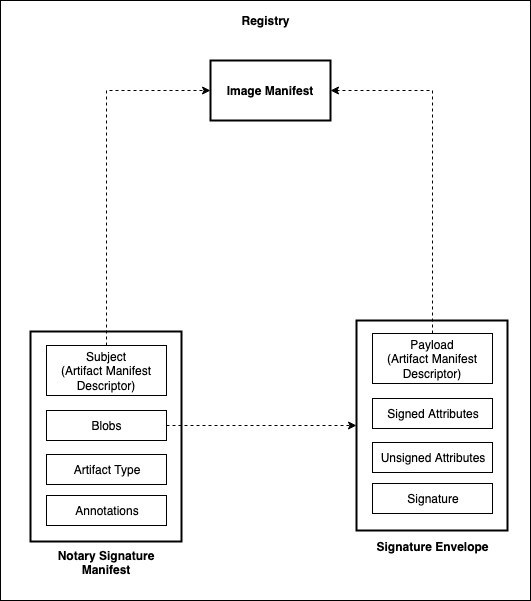
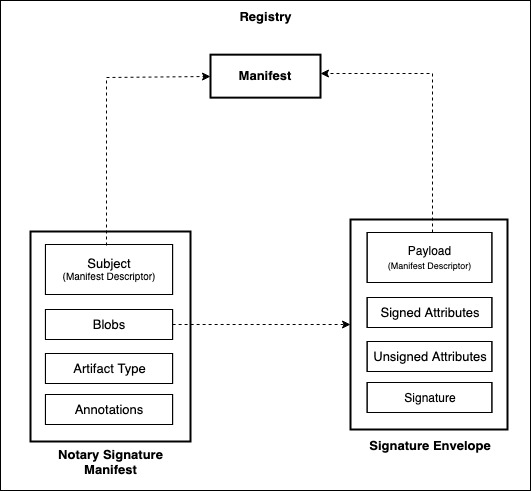
addressing PR feedback

diff --git a/signature-specification.md b/signature-specification.md
@@ -8,14 +8,14 @@ The document consists of following sections:
 
 ## Storage
 This section describes how Notary v2 signatures are stored in the OCI Distribution conformant registry.
-Notary v2 uses [ORAS artifact manifest](https://github.com/oras-project/artifacts-spec/blob/main/artifact-manifest.md) to store the signature in the repository. The signature artifact manifest consists of a signature type, a reference to the manifest of the artifact being signed, a blob referencing to the signature, and a collection of annotations.
-<img src="media/signature-specification.jpg" width="550" height="450">
+Notary v2 uses [ORAS artifact manifest](https://github.com/oras-project/artifacts-spec/blob/main/artifact-manifest.md) to store the signature in the repository. The manifest that contains the signature is of type `application/vnd.cncf.oras.artifact.manifest.v1+json`. The signature artifact manifest consists of a signature type, a reference to the manifest of the artifact being signed, a blob referencing to the signature, and a collection of annotations.
+![Signature storage inside registry](media/signature-specification.svg)
 
-- **`artifactType`**: Used to identify the Notary signature artifact. The supported value is `application/vnd.cncf.notary.v2`.
-- **`blobs`**: A collection consisting of only one [artifact descriptor](https://github.com/oras-project/artifacts-spec/blob/main/descriptor.md) that refers to a signature envelope.
-   - **`mediaType`**: Defines the media type of signature envelope blob. The supported value is `application/jose+json`
-- **`subject`**: An artifact descriptor referencing to image manifest that is signed.
-- **`annotations`**: This OPTIONAL property contains arbitrary metadata for the artifact manifest. It can be used to store information about the signature.
+- **`artifactType`**(*string*): This REQUIRED property references the Notary version of the signature: `application/vnd.cncf.notary.v2`.
+- **`blobs`**(*array of objects*): This REQUIRED property contains collection of only one [artifact descriptor](https://github.com/oras-project/artifacts-spec/blob/main/descriptor.md) referencing signature envelope.
+   - **`mediaType`**(*string*): This REQUIRED property contains media type of signature envelope blob. The supported value is `application/jose+json`
+- **`subject`**(*descriptor*): A REQUIRED artifact descriptor referencing the signed manifest, including, but not limited to image manifest, image index, oras-artifact manifest.
+- **`annotations`**(*string-string map*): This OPTIONAL property contains arbitrary metadata for the artifact manifest. It can be used to store information about the signature.
 ```json
 {
  "artifactType": "application/vnd.cncf.notary.v2",
@@ -38,12 +38,12 @@ Notary v2 uses [ORAS artifact manifest](https://github.com/oras-project/artifact
 ```
 
 ### Signature Discovery
-The client should be able to discover all the signatures belonging to an artifact(such as image manifest) by using [ORAS Manifest Referrers API](https://github.com/oras-project/artifacts-spec/blob/main/manifest-referrers-api.md). ORAS Manifest Referrers API returns a paginated list of all artifacts belonging to a target artifact(such as image manifest). The implementation can filter Notary signature artifacts by either using ORAS Manifest Referrers API or using custom logic on the client. Each Notary signature artifact refers to a signature envelope blob.  
+The client should be able to discover all the signatures belonging to an artifact(such as image manifest) by using [ORAS Manifest Referrers API](https://github.com/oras-project/artifacts-spec/blob/main/manifest-referrers-api.md). ORAS Manifest Referrers API returns a paginated list of all artifacts belonging to a target artifact(such as container images, sboms). The implementation can filter Notary signature artifacts by either using ORAS Manifest Referrers API or using custom logic on the client. Each Notary signature artifact refers to a signature envelope blob.  
 
 
 ## Signature Envelope
 The Signature Envelope is a standard data structure for creating a signed message. A signature envelope consists of the following components:
-* Payload(m): The data that is integrity protected - e.g. container image descriptor.
+* Payload(m): The data that is integrity protected - e.g. descriptor of the artifact being signed.
 * Signed attributes(v): The signature metadata that is integrity protected - e.g. signature expiration time, signing time, etc.
 * Unsigned attributes(u): This OPTIONAL property represents signature metadata that is not integrity protected - e.g. timestamp, certificates, etc.
 * Cryptographic signatures(s): The digital signatures computed on payload and signed attributes.
@@ -53,14 +53,25 @@ A signature envelope is `e = {m, v, u, s}` where `s` is signature.
 Notary v2 supports [JWS JSON Serialization](https://datatracker.ietf.org/doc/html/rfc7515) as signature envelope format with some additional constraints but is extensible to support any other signature envelope format.
 
 ### Payload
-Notary v2 requires Payload to be the [descriptor](https://github.com/opencontainers/image-spec/blob/master/descriptor.md#properties) of the target manifest that is being signed.  
+Notary v2 requires Payload to be the [descriptor](https://github.com/opencontainers/image-spec/blob/master/descriptor.md#properties) of the subject manifest that is being signed.
 1. Descriptor MUST contain `mediaType`, `digest`, `size` fields.
-1. Descriptor MAY contain `artifactType` field for artifact manifests, or the `config.mediaType` for `oci.image` based manifests or annotations.
+2. Descriptor MAY contain `annotations`. The `annotations` are being used to store signed attributes.
+3. Descriptor MAY contain `artifactType` field for artifact manifests, or the `config.mediaType` for `oci.image` based manifests.
+
+Examples:
 ```json
 {
    "mediaType": "application/vnd.oci.image.manifest.v1+json",
    "digest": "sha256:73c803930ea3ba1e54bc25c2bdc53edd0284c62ed651fe7b00369da519a3c333",
    "size": 16724
+}
+```
+
+```json
+{
+   "mediaType": "sbom/example",
+   "digest": "sha256:9834876dcfb05cb167a5c24953eba58c4ac89b1adf57f28f2f9d09af107ee8f0",
+   "size": 32654
 }
 ```
 
@@ -75,10 +86,9 @@ Notary v2 requires the signature envelope to support the following signed attrib
 
 ### Supported Signature Envelopes
 #### JWS JSON Serialization
-In JWS JSON Serialization([RFC7515](https://datatracker.ietf.org/doc/html/rfc7515)), data is stored as either claims or headers(protected and unprotected).  
-Notary v2 uses JWS JSON Serialization for the signature envelope with some additional constraints on the structure of claims and headers.
+In JWS JSON Serialization([RFC7515](https://datatracker.ietf.org/doc/html/rfc7515)), data is stored as either claims or headers(protected and unprotected). Notary v2 uses JWS JSON Serialization for the signature envelope with some additional constraints on the structure of claims and headers.
 
-Unless explicitly specified as OPTIONAL, all fields are mandatory. Also, there shouldn’t be any additional fields other than ones specified in JWSPayload, ProtectedHeader, and UnprotectedHeader.
+Unless explicitly specified as OPTIONAL, all fields are required. Also, there shouldn’t be any additional fields other than ones specified in JWSPayload, ProtectedHeader, and UnprotectedHeader.
 
 **JWSPayload a.k.a. Claims**:
 Notary v2 is using one private claim(notary) and two public claims(iat and exp). An example of the claim is described below
@@ -88,17 +98,10 @@ Notary v2 is using one private claim(notary) and two public claims(iat and exp).
        "subject": {
            "mediaType": "application/vnd.oci.image.manifest.v1+json",
            "digest": "sha256:73c803930ea3ba1e54bc25c2bdc53edd0284c62ed651fe7b00369da519a3c333",
-           "size": 16724
-       },
-       "attributes": {
-           "reserved": {
-               "key1": "value1",
-               "key2": "value2",
-               ...
-           },
-           "custom" : {
-               "customKey1": "customValue1",
-               "customKey2": "customValue2",
+           "size": 16724,
+           "annotations": {
+              "key1": "value1",
+              "key2": "value2",
                ...
            }
        }
@@ -109,18 +112,19 @@ Notary v2 is using one private claim(notary) and two public claims(iat and exp).
 ```
 The payload contains the subject manifest and other attributes that have to be integrity protected.
 
-* **`notary`**: The top-level node and a private claim encapsulating the notary v2 data.
-* **`subject`**: The manifest that needs to be integrity protected.
-* **`attributes`**: Contains additional attributes that need to be integrity protected.
-   * **`reserved`**: The collection of attributes reserved for notary v2 use such as artifact revocation list, identity, etc. The attributes MUST be key(string)-value(string) pair. These attributes are yet to be defined.
-   * **`custom`**: The collection of user-defined attributes such as buildId, imageScanned, etc. The attributes MUST be key(string)-value(string) pair. The use of this field is OPTIONAL.
-* **`iat`**: Issued at identifies the time at which the signature was issued.
-* **`exp`**: Expiration time identifies the expiration time on or after which the signature must not be considered valid. The use of this claim is OPTIONAL.
+* **`notary`**(*string-string map*): This is a REQUIRED top-level node and a private claim encapsulating the notary v2 data.
+* **`subject`**(*descriptor*): A REQUIRED manifest that needs to be integrity protected.
+  * **`mediaType`**(*string*): This REQUIRED property contains the media type of the referenced content.
+  * **`size`**(*int64*): This REQUIRED property specifies the size, in bytes, of the raw content.
+  * **`digest`**(*string*): This REQUIRED property is the _digest_ of the targeted content.
+  * **`annotations`**(*string-string map*): This OPTIONAL property contains signed attributes and MUST follow the [annotation rules](https://github.com/opencontainers/image-spec/blob/main/annotations.md#rules). The prefix `org.opencontainers.notary` is reserved for use in Notary v2 and MUST NOT be used outside this specification.
+* **`iat`**(*number*): The REQUIRED property Issued-at(iat) identifies the time at which the signature was issued.
+* **`exp`**(*number*): This OPTIONAL property contains the expiration time on or after which the signature must not be considered valid. 
 
 To leverage JWS claims validation functionality already provided by libraries, we have defined `iat`, `exp` as top-level nodes.
 
 **ProtectedHeaders**:
-Notary v2 uses only 3 protected headers: alg, cty, and crit.
+Notary v2 supports only three protected headers: alg, cty, and crit.
 ```json
 {
    "alg": "RS256",
@@ -128,49 +132,34 @@ Notary v2 uses only 3 protected headers: alg, cty, and crit.
    "crit":["cty"]
 }
 ```
-* **`alg`**: JWS needs algorithm(alg) to be present in the header, so we have added it as a protected header.
-* **`cty`**: Content type(cty) used to declare the media type of the secured content(the payload). This will be used to version different variotions of JWS signature. The supported value is `application/vnd.cncf.notary.v2.jws.v0`.
-* **`crit`**: Indicates the list of headers that implementation MUST be understood and processed. The value MUST be `["cty"]`.
+* **`alg`**(*string*): This REQUIRED property defines which algorithm was used to generate the signature. JWS needs an algorithm(alg) to be present in the header, so we have added it as a protected header.
+* **`cty`**(*string*): The REQUIRED property content-type(cty) is used to declare the media type of the secured content(the payload). This will be used to version different variotions of JWS signature. The supported value is `application/vnd.cncf.notary.v2.jws.v0`.
+* **`crit`**(*array of strings*): This REQUIRED property lists the headers that implementation MUST understand and process. The value MUST be `["cty"]`.
 
 **UnprotectedHeaders**:
-Notary v2 uses only 2 unprotected headers: timestamp and x5c.
+Notary v2 supports only two unprotected headers: timestamp and x5c.
 ```
 {
    "timestamp": "<Base64Url(TimeStampToken)>",
    "x5c": ["<Base64(DER(leafCert))>", "<Base64(DER(intermediateCACert))>", "<Base64(DER(rootCert))>"]
 }
 ```
-* **`timestamp`**: Used to store time stamp token. Only [RFC3161]([rfc3161](https://datatracker.ietf.org/doc/html/rfc3161#section-2.4.2)) compliant TimeStampToken are supported. Use of this header is OPTIONAL.
-* **`x5c`**: Contains the X.509 public key certificate or certificate chain([RFC5280](https://datatracker.ietf.org/doc/html/rfc5280)) corresponding to the key used to digitally sign the JWS.
+* **`timestamp`**(*string*): This OPTIONAL property is used to store time stamp token. Only [RFC3161]([rfc3161](https://datatracker.ietf.org/doc/html/rfc3161#section-2.4.2)) compliant TimeStampToken are supported.
+* **`x5c`**(*array of strings*): This REQUIRED property contains the list of X.509 certificate or certificate chain([RFC5280](https://datatracker.ietf.org/doc/html/rfc5280)) corresponding to the key used to digitally sign the JWS.
 
 **Signature**:
 In JWS signature is calculated by combining JWSPayload and protected headers. The process is described below:
-1. Compute the base64url value of ProtectedHeaders.
-2. Compute the base64url value of JWSPayload.
+1. Compute the Base64Url value of ProtectedHeaders.
+2. Compute the Base64Url value of JWSPayload.
 3. Build message to be signed by concatenating the values generated in step 1 and step 2 using '.'
 `ASCII(BASE64URL(UTF8(ProtectedHeaders)) ‘.’ BASE64URL(JWSPayload))`
 4. Compute the signature on the message constructed in the previous step by using the signature algorithm defined in the corresponding header element: alg.
-5. Compute the base64url value of the signature produced in the previous step. This is the value of the signature property used in the signature envelope.
+5. Compute the Base64Url value of the signature produced in the previous step. This is the value of the signature property used in the signature envelope.
 
 **Signature Envelope**:
 The final signature envelope comprises of Claims, ProtectedHeaders, UnprotectedHeaders, and signature.
-```json
-{
-   "payload": "<Base64Url(JWSPayload)>",
-   "signatures": [
-       {
-           "protected": "<Base64Url(ProtectedHeaders)>",
-           "header": {
-               "timestamp": "<Base64Url(TimeStampToken)>",
-               "x5c": ["<Base64(DER(leafCert))>", "<Base64(DER(intermediateCACert))>", "<Base64(DER(rootCert))>"]
-           },
-           "signature": "Base64Url( sign( ASCII( <Base64Url(JWSPayload)>.<Base64Url(ProtectedHeader)> )))"  
-       }
-   ]
-}
-```
-If a JWS contains only one signature as above, the JWS can be flattened as
 
+Since Notary v2 restricts one signature per signature envelope, the compliant signature envelope MUST be in flattened JWS JSON format.
 ```json
 {
    "payload": "<Base64Url(JWSPayload)>",
@@ -183,18 +172,19 @@ If a JWS contains only one signature as above, the JWS can be flattened as
 }
 ```
 
-++**Implementation Constraints**++
+**Implementation Constraints**
 Notary v2 implementation MUST enforce the following constraints on signature generation and verification:
-* `alg` header value MUST NOT be `none` or any symmetric-key algorithm such as `HMAC`.
-* `alg` header value MUST be same as that of signature algorithm identified using signing certificate's public key algorithm and size.
-* `alg` header values for various signature algorithms:
+1. `alg` header value MUST NOT be `none` or any symmetric-key algorithm such as `HMAC`.
+2. `alg` header value MUST be same as that of signature algorithm identified using signing certificate's public key algorithm and size.
+3. `alg` header values for various signature algorithms:
    | Signature Algorithm    | "alg" Param Value |
    | --------    | -------- |
    | ECDSA on secp256r1 with SHA-256 | ES256     |
    | ECDSA on secp256r1 with SHA-512 | ES256     |
    | RSASSA-PSS with SHA-256   | PS256     |
    | RSASSA-PSS with SHA-512   | PS512     |
-* Signing certificate MUST be a valid codesigning certificate.
+4. Signing certificate MUST be a valid codesigning certificate.
+5. Only JWS JSON flattened format is supported. See 'Signature Envelope' section.
 
 ## Signature Algorithms
 The implementation MUST support the following set of algorithms:
@@ -218,11 +208,11 @@ The signing certificate's public key algorithm and size MUST be used to determin
 |ECDSA| 384   | ECDSA on secp384r1 with SHA-384     |
 |ECDSA| 512   | ECDSA on secp521r1 with SHA-512     |
 
-### FAQ
-1. How will Notary v2 support multiple signature envelope format?
+## FAQ
+**Q1.** How will Notary v2 support multiple signature envelope format?
 
-    The general idea is to use `mediaType` of artifact manifest's blob to identify the signature artifact(like jws, cms, dsse,etc). The client implementation can use aformentioned `mediaType` to parse the signature envelope.
+The idea is to use `mediaType` of artifact manifest's blob to identify the signature artifact(like jws, cms, dsse, etc). The client implementation can use the aforementioned `mediaType` to parse the signature envelope.
     
-1. How will Noatary v2 handle non-backward compatible changes to signature format.
-    
-    Signature envelope MUST have versioning  mechanism to support non-backward compatible changes.
+**Q2.** How will Notary v2 handle non-backward compatible changes to signature format?
+
+The Signature envelope MUST have a versioning mechanism to support non-backward compatible changes.
